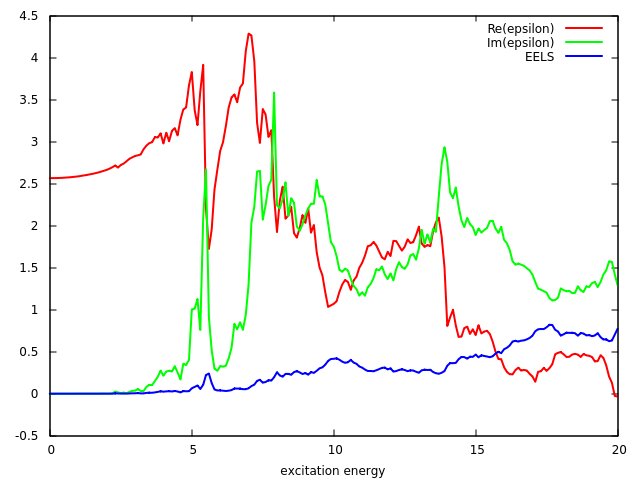
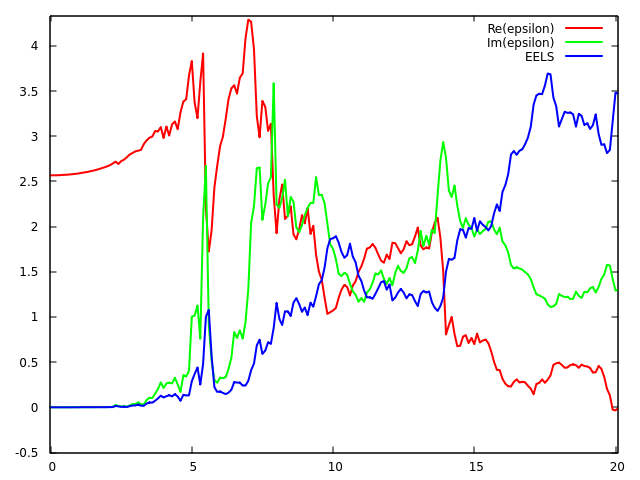
after the rehearsal

diff --git a/slides/presentation.tex b/slides/presentation.tex
@@ -150,12 +150,12 @@ $\Rightarrow $ l'espace de dimension $768$ à considérer.
 \frametitle{Études de l'état fondamental}
 \framesubtitle{Théorie de la fonctionnelle de la densité, DFT en anglais}
 \begin{theoreme}[Hohenberg-Kohn]
-  L'espérance d'un observable dans l'état fondamental est une fonctionnelle unique
+  L'espérance d'une observable dans l'état fondamental est une fonctionnelle unique
   de la densité d'électrons.
 \end{theoreme}
 
 \begin{theoreme}[Kohn-Sham]
-  Pour tout système qui contient des termes d'interactions entre électrons,
+  Pour tout système qui contient des termes d'interaction entre électrons,
   il existe un système auxiliaire non-interagissant ayant la même densité d'électrons.
 \end{theoreme}
 
@@ -180,7 +180,7 @@ avec
 \end{equation*}
 \textbf{Remarque} un terme d'échange-corrélation apparaît
 
-$\Rightarrow$ Approximations nécesitées (avec l'approximation des gradients généralisés, GGA en anglais)
+$\Rightarrow$ Approximations nécesitées (avec l'approximation des gradients généralisée, GGA en anglais)
 
 Solution du système d'équations: $\phi_i(\vb{r})$. Processus itératif:
 \begin{equation*}
@@ -197,14 +197,14 @@ Solution du système d'équations: $\phi_i(\vb{r})$. Processus itératif:
   \item Fonctionnement:
     Théorème de Bloch
     \begin{equation*}
-      \phi_{n,\textbf{k}_i}
-      = \frac{1}{\sqrt{\Omega_{maille}}}e^{i\textbf{k}_i\cdot\textbf{r}}\sum_{\textbf{G}} c_{n,\textbf{k}_i}(\textbf{G})e^{i\textbf{G}\cdot\textbf{r}}
+      \phi_{n,\textbf{k}_i}      
       = e^{i\textbf{k}_i\cdot\textbf{r}} u_{n,\textbf{k}_i}(\textbf{r})
+      = \frac{1}{\sqrt{\Omega_{maille}}}e^{i\textbf{k}_i\cdot\textbf{r}}\sum_{\textbf{G}} c_{n,\textbf{k}_i}(\textbf{G})e^{i\textbf{G}\cdot\textbf{r}}
     \end{equation*}
   \item Réduction de la dimension de la base d'ondes planes en définissant une énergie de seuil $E_{cut}$:
-    \begin{equation}
+    \begin{equation*}
       \frac{1}{2}|\textbf{k}+\textbf{G}|^2 \leq E_{cut}
-    \end{equation}
+    \end{equation*}
 
   \item Résultat obtenu:
 
@@ -414,8 +414,19 @@ $\Longrightarrow$ terme d'échange-corrélation à approximer,  avec la \textit{
 
 \end{frame}
 %%%%%%%%%%%%%%%%%%%%%%%%%%%%%%%%%%%%%%%%%%%%%%%%%
+\begin{frame}
+\frametitle{Études des états excités}
+On a désormais:
+\begin{itemize}
+\item Convergence en échantillonnage
+\item Les bandes nécessaires pour avoir la convergence
+\item Bonne méthode d'approximation
+\end{itemize}
+$\Longrightarrow$ On peut passer à l'analyse du matériau
+\end{frame}
 
 
+%%%%%%%%%%%%%%%%%%%%%%%%%%%%%%%%%%%%%%%%%%%%%%%%%%%%
 \begin{frame}
 \frametitle{Analyse des résultats}
 \framesubtitle{Anisotropie du système}
@@ -431,11 +442,20 @@ $\Longrightarrow$ terme d'échange-corrélation à approximer,  avec la \textit{
 \begin{frame}
 \frametitle{Analyse des résultats}
 \framesubtitle{EELS et la fonction diélectrique}
-\begin{figure}[!h]
-    \centering
-    \includegraphics[width=8cm]{epsilon_compare}
-    \caption{Relation entre les parties réelle et imaginaire de la fonction diélectrique $\epsilon$ et EELS}\label{fig-epsilon_compare}
-\end{figure}
+\begin{columns}
+  \begin{column}{\dimexpr0.2\paperwidth-10pt}
+  $\V{EELS} 
+  = \Im{(\epsilon^{-1})} 
+  		= \frac{-\Im({\epsilon})}{\Re{(\epsilon)}^2 + \Im{(\epsilon)}^2}$
+  \end{column}
+  \begin{column}{\dimexpr0.8\paperwidth-10pt}
+        \begin{figure}[!h]
+      \centering
+      \includegraphics[width=8cm]{epsilon_compare}
+      \caption{Relation entre les parties réelle et imaginaire de la fonction diélectrique $\epsilon$ et EELS}\label{fig-epsilon_compare}
+    \end{figure}
+  \end{column}
+\end{columns}
 
 \end{frame}
 %%%%%%%%%%%%%%%%%%%%%%%%%%%%%%%%%%%%%%%%%%%%%%%%%
@@ -477,8 +497,9 @@ $\Longrightarrow$ terme d'échange-corrélation à approximer,  avec la \textit{
 \frametitle{Conclusion}
 \begin{itemize}
   \item Conditions initiales $\rightarrow$ Études de convergence\\ $\rightarrow$ État fondamental $\rightarrow$ Études de convergence\\ $\rightarrow$ Dispersion, transition spectroscopique
+  \item Prospective: états hydratés d'oxalate de calcium  
   \item Projet de recherche en collaboration, discussion et réunion
-  \item Compétence technique: logiciel de visualisation, gestion de tâches de calcul sur les clusters
+  \item Compétences techniques: logiciel de visualisation, gestion de tâches de calcul sur les clusters
 %\item Un premier aperçu sur le travail de recherche en laboratoire
 %\item Fournir une référence aux expérimentateurs
 %\item Perspective
